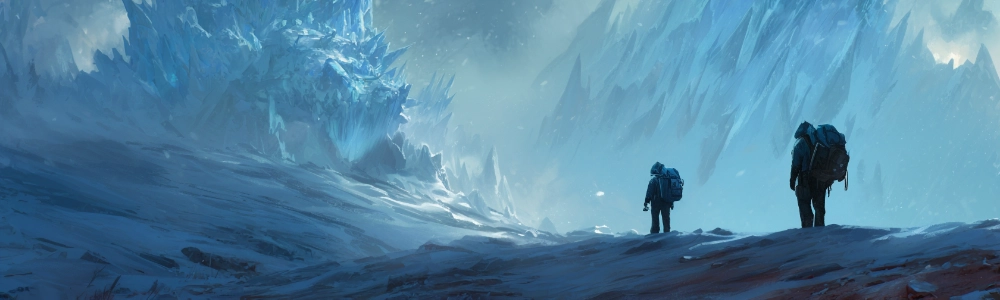
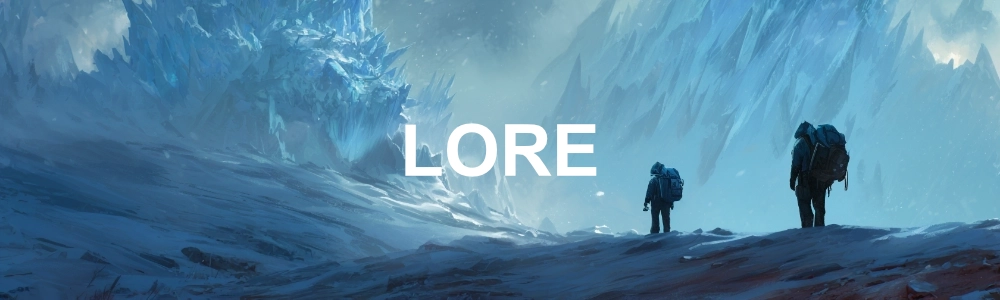
Refactor code structure for improved readability and maintainability

Changed region(s): [[0.403, 0.39, 0.62, 0.6]]

diff --git a/getting-started.md b/getting-started.md
@@ -14,7 +14,7 @@ order: 100
 # Começando a Jogar
 
 %% ============================================================================================= %%
->>> O que é APOTHEOSIS CARD GAME
+>>> O QUE É APOTHEOSIS CARD GAME
 %% ============================================================================================= %%
 
   ![](static/img/banners/getting-started-1.webp){.rounded-lg .logo}
@@ -94,10 +94,11 @@ order: 100
 
 
 %% ============================================================================================= %%
->>> Contexto
+>>> CONTEXTO
 %% ============================================================================================= %%
 
   ![](static/img/banners/getting-started-2.webp){.rounded-lg .logo}
+
 
   %% ----------------------------------------------------------------------- %%
   ==- O Mundo do Jogo
@@ -120,7 +121,9 @@ order: 100
 
   O sistema de jogo é o conjunto de regras e mecânicas que regem como as partidas de APOTHEOSIS CARD GAME são jogadas. Ele define como os jogadores interagem com o jogo, como as ações são resolvidas, e como os objetivos são alcançados.
 
+  !!!
   Observe que, apesar do sistema vir acompanhado de um universo e narrativa específicos, ele é modular e pode ser adaptado para diferentes contextos, histórias e ambientações, de acordo com a preferência dos jogadores. Sendo possível jogar o sistema de jogo sem qualquer contexto ou narrativa, ou com um contexto e narrativa completamente diferente do universo oficial do jogo.
+  !!!
 
   ===
 
@@ -129,96 +132,85 @@ order: 100
 
 
 %% ============================================================================================= %%
->>> Objetivo
+>>> OBJETIVO DO JOGO
 %% ============================================================================================= %%
 
+  ![](static/img/banners/getting-started-3.webp){.rounded-lg .logo}
 
 
-Em APOTHEOSIS CARD GAME o objetivo consiste em construir um baralho eficiente e estratégico que representa o seu personagem no universo do jogo, combinando e explorando as melhores sinergias entre cartas ao longo da partida, e utilizar este baralho em constante evolução, para cumprir objetivos, enfrentar desafios, ou derrotar outros jogadores.
+  %% ----------------------------------------------------------------------- %%
+  ==- Condição de Vitória
+  %% ----------------------------------------------------------------------- %%
 
-Sendo este um jogo modular, ele pode ser jogado de diversas formas, com diferentes propostas e mecânicas, de acordo com a preferência dos jogadores. Permitindo objetivos que podem ser cumprindo de forma cooperativa ou competitiva, bem como modos exclusivamente de batalha.
+  Em APOTHEOSIS CARD GAME o objetivo consiste em construir um baralho eficiente e estratégico que representa o seu personagem no universo do jogo, combinando e explorando as melhores sinergias entre cartas ao longo da partida, e utilizar este baralho em constante evolução, para cumprir objetivos, enfrentar desafios, ou derrotar outros jogadores.
 
-Em adicional, objetivos e desafios específicos podem ser definidos para cada partida, de acordo com o formato escolhido, bem como propostos por uma campanha ou metre de jogo.
+  Sendo este um jogo modular, ele pode ser jogado de diversas formas, com diferentes propostas e mecânicas, de acordo com a preferência dos jogadores. Permitindo objetivos que podem ser cumprindo de forma cooperativa ou competitiva, bem como modos exclusivamente de batalha.
 
-!!!ghost
-Consulte a sessão de [formatos](#formato) para mais detalhes sobre algumas dos formatos mais comuns de jogo.
-!!!
+  Em adicional, objetivos e desafios específicos podem ser definidos para cada partida, de acordo com o formato escolhido, bem como propostos por uma [campanha](/gameplay/campaigns.md), [formatos](#formato) ou metre de jogo.
 
----
+  ##### Cooperativo
 
-## Cooperativo
+  Os jogadores unem forças em uma campanha épica, enfrentando desafios e inimigos controlados pelo jogo ou por um narrador. A cada sessão, adquirem novas cartas para fortalecer seus personagens, com o objetivo final de derrotar ameaças crescentes e completar a campanha com sucesso.
 
-Os jogadores unem forças em uma campanha épica, enfrentando desafios e inimigos controlados pelo jogo ou por um narrador. A cada sessão, adquirem novas cartas para fortalecer seus personagens, com o objetivo final de derrotar ameaças crescentes e completar a campanha com sucesso.
+  ##### Competitivo
 
----
+  Jogado da mesma forma que o modo cooperativo, porém os jogadores jogam individualmente ou divididos em dois ou mais times, competindo em uma corrida para cumprir primeiro o objetivo definido.
 
-## Competitivo
+  ##### Arena
 
-Jogado da mesma forma que o modo cooperativo, porém os jogadores jogam individualmente ou divididos em dois ou mais times, competindo em uma corrida para cumprir primeiro o objetivo definido.
-
-### Arena
-
-Dois ou mais jogadores ou equipes se enfrentam em um confronto tático, utilizando seus baralhos personalizados desenvolvidos por cada jogador antes da partida. O objetivo é derrotar o time adversário em batalhas estratégicas no tabuleiro. A equipe que eliminar todos os oponentes ou atingir o objetivo específico da partida será a vencedora.
+  Dois ou mais jogadores ou equipes se enfrentam em um confronto tático, utilizando seus baralhos personalizados desenvolvidos por cada jogador antes da partida. O objetivo é derrotar o time adversário em batalhas estratégicas no tabuleiro. A equipe que eliminar todos os oponentes ou atingir o objetivo específico da partida será a vencedora.
 
 
 
   %% ----------------------------------------------------------------------- %%
-  === Condição de Vitória
+  ==- Formatos, Campanhas e Modos de Jogo
   %% ----------------------------------------------------------------------- %%
 
-  Seja direto sobre como se ganha o jogo. Pode ser reduzindo os Pontos de Vida (Life/Security) do oponente a zero, comprando todas as cartas de prêmio, ou completando uma missão narrativa.
+  ##### Formatos
+
+  Os formatos de jogo são conjuntos personalizados de regras que adicionam ou modificam as regras padrões de jogo. São utilizados para criar diferentes formas de jogar e permitir a customização por parte dos jogadores
+
+  Consulte a seção de [Formatos](/gameplay/formats.md) para conhecer os formatos oficiais do jogo, e sinta-se livre para criar seus próprios formatos personalizados, adaptando as regras e mecânicas do jogo para atender às suas preferências e necessidades.
+
+  ##### Campanhas
+
+  As campanhas são histórias pré-definidas que guiam os jogadores através de uma série de missões e desafios, utilizando as cartas e mecânicas do jogo para criar uma experiência narrativa imersiva.
+
+  ##### Modos de Jogo
+
+  Já os modos de jogo são variações nas regras e objetivos que permitem diferentes formas de jogar, seja cooperativamente, competitivamente ou em arena.
+
+
 
   %% ----------------------------------------------------------------------- %%
-  === Formatos
+  ==- Preparando a Partida
   %% ----------------------------------------------------------------------- %%
 
-Os formatos de jogo são conjuntos personalizados de regras que adicionam ou modificam as regras padrões de jogo. São utilizados para criar diferentes formas de jogar e permitir a customização por parte dos jogadores
+  ##### Configuração da Partida
 
-Abaixo estão os formatos oficiais:
-
-TODO
-
-[Standard]()
-[Lagvig]()
-[Field Battle]()
-[Naval Battle]()
-[Liga Pokémon]()
-
-  %% ----------------------------------------------------------------------- %%
-  === Campanhas e Modos de Jogo
-  %% ----------------------------------------------------------------------- %%
+  Uma vez escolhido o formato, campanha e/ou modo de jogo, siga as regras e passos definidos por estes para preparar a partida. Estes passos podem variar dependendo da escolha e configuração, mas geralmente incluem:
 
 
-## Preparando a Partida
+  ##### Cartas
 
-### Cartas
+  Separe as cartas iniciais listadas, faça 1 baralho para cada naipe e embaralhe cada um. Posicione estes baralhos na área do jogo de forma que os jogadores possam ter acesso. Reserve também uma zona para a pilha de descarte.
 
-Separe as cartas iniciais listadas pela campanha, faça 1 baralho para cada naipe e embaralhe cada um. Posicione estes baralhos na área do jogo de forma que os jogadores possam ter acesso. Reserve também uma zona para a pilha de descarte.
+  !!!
+  Na maioria dos modos de Arena, os jogadores trazem os seus baralhos customizados prontos, e apenas embaralham suas cartas de recurso antes de começar a partida
+  !!!
 
-!!!
-Na maioria dos formatos de Arena, os jogadores trazem os seus baralhos customizados prontos, e apenas embaralham suas cartas de recurso antes de começar a partida
-!!!
+  ##### Heróis
 
-### Heróis
+  Cada jogador precisa de um Herói. A configuração da partida costuma definir regras próprias de como os Heróis devem ser criados. Algumas formas comuns são:
 
-Cada jogadores precisa de um Herói. O formato e a campanha costumam definir regras próprias de como os Heróis devem ser criados. Algumas formas comuns são:
+  - Cada jogador escolhe uma carta de {{ house }} de um conjunto predefinido
+  - Uma quantidade de cartas do conjunto total de cartas de {{ house }} é distribuído aleatoriamente para os jogadores e cada um escolhe uma carta, devolvendo as demais para o baralho
 
-- Cada jogador escolhe uma carta de CASA de um conjunto predefinido
-- Uma quantidade de cartas do conjunto total de cartas de CASA é distribuído aleatoriamente para os jogadores e cada um escolhe uma carta, devolvendo as demais para o baralho
+  > Uma carta de {{ house }} é tudo que você precisa para definir um Herói.
 
-Uma carta de CASA é tudo que você precisa para definir um Herói.
-
-!!!
-Os jogadores podem também definir um nome, idade, sexo e aparência para seu Herói, se desejarem, sendo estas características opcionais para a maioria dos formatos e irrelevantes para as regras de jogo.
-!!!
-
-### Campanha
-
-Siga os passos adicionas definidos pela campanha escolhida, que também determinarão como iniciar a partida.
-
----
-
-
+  !!!
+  Os jogadores podem também definir um nome, idade, sexo e aparência para seu Herói, se desejarem, sendo estas características opcionais para a maioria dos modos de jogo.e irrelevantes para as regras de jogo, sendo de caráter narrativo.
+  !!!
 
   ===
 
@@ -227,9 +219,10 @@ Siga os passos adicionas definidos pela campanha escolhida, que também determin
 
 
 %% ============================================================================================= %%
->>> Anatomia do Jogo (Ferramentas e Tabuleiro)
+>>> COMPONENTES DO JOGO
 %% ============================================================================================= %%
 
+  ![](static/img/banners/getting-started-4.webp){.rounded-lg .logo}
 
   %% ----------------------------------------------------------------------- %%
   === As Cartas
@@ -242,15 +235,22 @@ Siga os passos adicionas definidos pela campanha escolhida, que também determin
 
   Leitura da Carta: Mostre onde olhar o Custo de jogo, o Poder de Ataque (ATK/DP) e os Efeitos.
 
+
   %% ----------------------------------------------------------------------- %%
   === Os Personagens
   %% ----------------------------------------------------------------------- %%
 
+  %% ----------------------------------------------------------------------- %%
+  === Mesa
+  %% ----------------------------------------------------------------------- %%
+
 
 
   %% ----------------------------------------------------------------------- %%
-  === O Tabuleiro (Áreas de Jogo)
+  === Tabuleiro
   %% ----------------------------------------------------------------------- %%
+
+  Peças
 
   Mostre onde as coisas ficam. Apresente a Zona do Deck, Zona de Descarte/Cemitério, Zona de Batalha/Campo, e a área de Recursos (Energia/Mana).
 
@@ -261,13 +261,17 @@ Siga os passos adicionas definidos pela campanha escolhida, que também determin
 
 
 %% ============================================================================================= %%
->>> Game Loop
+>>> JOGANDO
 %% ============================================================================================= %%
+
+  ![](static/img/banners/getting-started-5.webp){.rounded-lg .logo}
 
 
   %% ----------------------------------------------------------------------- %%
   === O Loop Narrativo (O lado RPG)
   %% ----------------------------------------------------------------------- %%
+
+  Game Loop
 
   Explique como a interação flui: 1) O Mestre descreve o ambiente; 2) O Jogador diz o que quer fazer; 3) O Mestre narra o resultado através das cartas/dados.
 
@@ -295,8 +299,10 @@ Siga os passos adicionas definidos pela campanha escolhida, que também determin
 
 
 %% ============================================================================================= %%
->>> Batalha
+>>> BATALHA
 %% ============================================================================================= %%
+
+  ![](static/img/banners/getting-started-6.webp){.rounded-lg .logo}
 
 
   %% ----------------------------------------------------------------------- %%
@@ -316,8 +322,12 @@ Siga os passos adicionas definidos pela campanha escolhida, que também determin
 
 
 %% ============================================================================================= %%
->>> Avançado e Para onde ir a partir daqui
+>>> O QUE VEM A SEGUIR
 %% ============================================================================================= %%
+
+  ![](static/img/banners/getting-started-7.webp){.rounded-lg .logo}
+
+  e AGORA?
 
   Glossário, regras, avançadas, consultar tópicos, etc.
 
